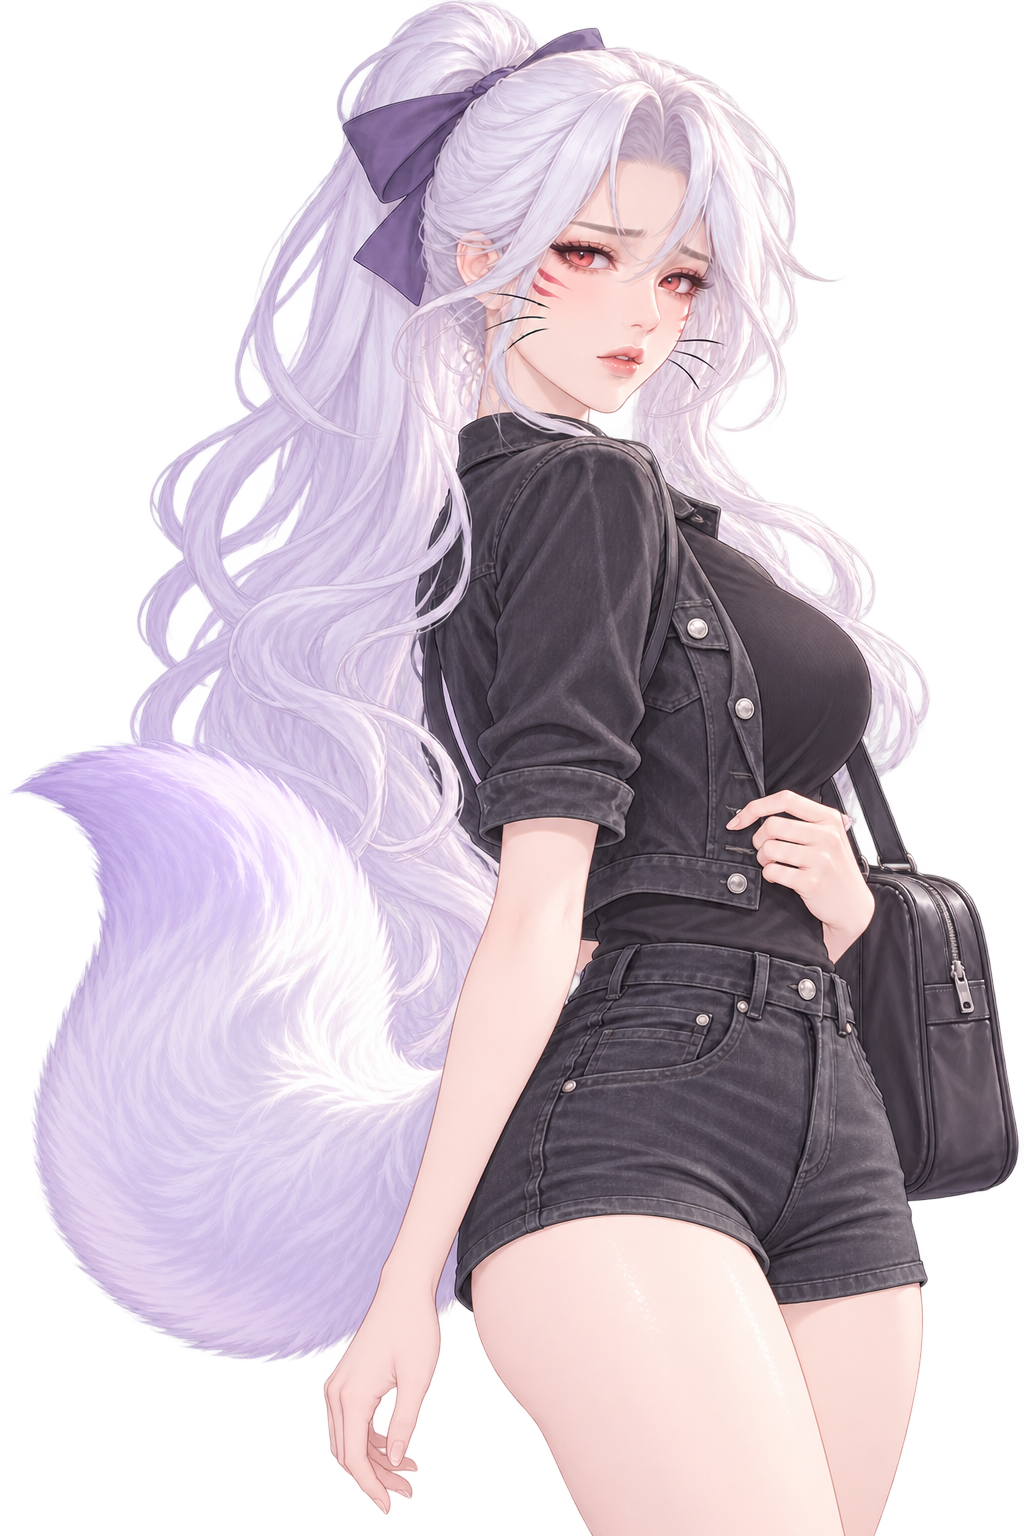
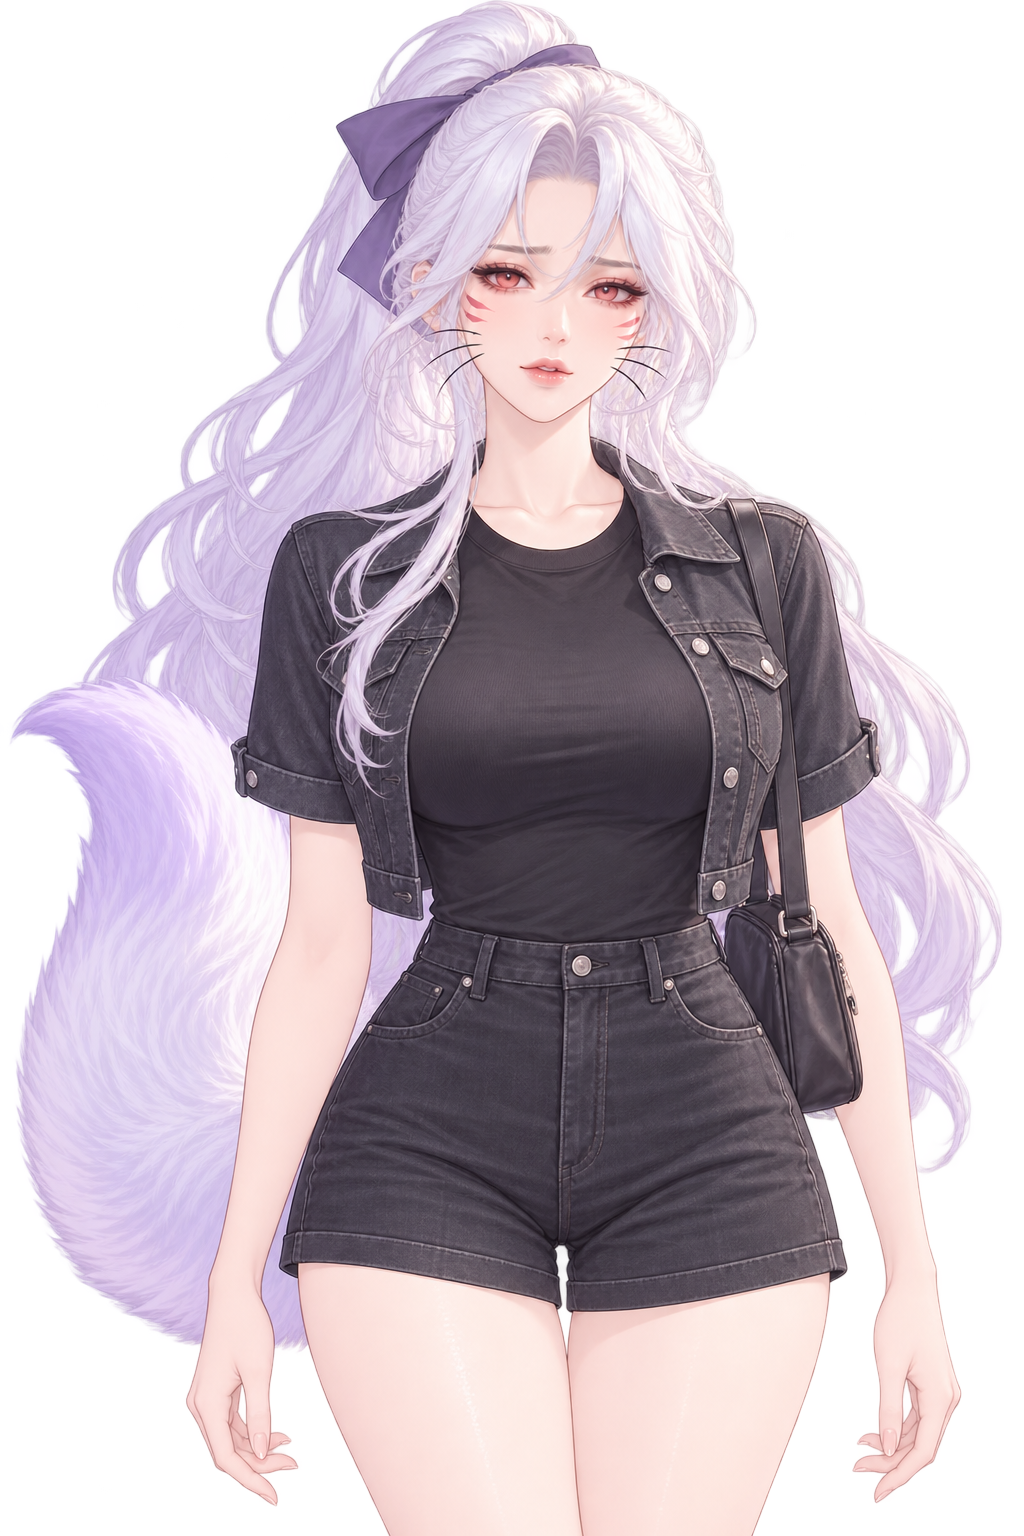
P1-5 정면 자세로 다시 생성

diff --git a/docs/illustration-replacement-prompts.md b/docs/illustration-replacement-prompts.md
@@ -114,7 +114,7 @@ CG는 공통 CG 블록과 파일별 장면 프롬프트를 이어 붙인다. 무
 | [P1-2.png](../assets/standing/P1-2.png) | 자신감 있고 따뜻한 미소, 몸을 살짝 비스듬히 두고 한 손을 허리에 둔다. |
 | [P1-3.png](../assets/standing/P1-3.png) | 누군가 불러 놀란 순간, 눈을 크게 뜨고 어깨를 살짝 올린 채 한 손은 재킷 깃에 둔다. |
 | [P1-4.png](../assets/standing/P1-4.png) | 데이트 복장을 의식해 살짝 부끄러워하며 시선을 아래로 내리고 양팔은 편하게 내린다. |
-| [P1-5.png](../assets/standing/P1-5.png) | 몸을 살짝 돌려 상대의 반응을 살피며 걱정스러운 표정을 짓고 한 손은 재킷 앞에 둔다. |
+| [P1-5.png](../assets/standing/P1-5.png) | 어깨와 골반을 정면으로 두고 상대의 반응을 살피며 걱정스러운 표정을 짓는다. 양팔은 몸 옆에 편하게 내린다. |
 | [P1-6.png](../assets/standing/P1-6.png) | 장난스럽게 옆을 흘겨보며 한 손으로 가방끈을 잡는다. |
 
 ### CH13 자유 의상 C13 세트
